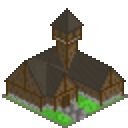
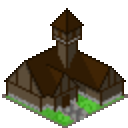
changed the sprites to remove the grass underneath. also added mill, market, farm sprites.

Changed region(s): [[0.0312, 0.0625, 1.0, 0.8438]]

diff --git a/src/states/gameplay_state.py b/src/states/gameplay_state.py
@@ -180,6 +180,7 @@ class GameplayState:
             path = os.path.join(self.terrain_path, filename)
             self.terrain_sprites[tile_code] = pygame.image.load(path).convert_alpha()
     
+    # loads the sprites for the units
     def load_unit_sprites(self):
         loaded_sprites = {}
     
@@ -241,6 +242,7 @@ class GameplayState:
                 path = os.path.join(self.building_path, sprite_info)
                 self.building_sprites[building_type] = pygame.image.load(path).convert_alpha()
 
+    # loads the sprites for ui resource icons
     def load_resource_icons(self):
         self.resource_animations = {}
 
@@ -253,6 +255,7 @@ class GameplayState:
             
             self.resource_animations[res_type] = AnimatedSprite(full_path, rows, cols)
 
+    # Displays the resource icons in the top right corner of the screen, with animation.
     def display_resource_icons(self, res_type):
         # 1. Get the animation object
         anim = self.resource_animations.get(res_type)
@@ -599,9 +602,11 @@ class GameplayState:
     # Displays a popup menu of the different buildings to construct and then calls the building selector
     def build_action(self):
         self.reachable_tiles = set()
-        self.popup_menu.open(["Town Centre", "Mill", "Cancel"], {
+        self.popup_menu.open(["Town Centre", "Market", "Mill", "Farm", "Cancel"], {
             "Town Centre": lambda: self.building_construction("town_centre"),
+            "Market": lambda: self.building_construction("market"),
             "Mill": lambda: self.building_construction("mill"),
+            "Farm": lambda: self.building_construction("farm"),
             "Cancel": self.cancel_action
         })
         self.popup_menu.set_position(

diff --git a/src/config.py b/src/config.py
@@ -109,12 +109,24 @@ UNIT_SPRITES_CONFIG = {
 
 BUILDING_SPRITES = {
     "town_centre": {
-        "normal": "towncenter3.png",
-        "selected": "tc_selected2.png"
+        "normal": "towncentre.png",
+        "selected": "tc_selected.png"
+    },
+    "market": {
+        "normal": "market.png",
+        "selected": "market_selected.png"
+    },
+    "mill": {
+        "normal": "mill.png",
+        "selected": "mill_selected.png"
+    },
+    "farm": {
+        "normal": "farm.png",
+        "selected": "farm.png"
     }
 }
 
-BUILDING_PATH = os.path.join("..", "assets", "buildings2")
+BUILDING_PATH = os.path.join("..", "assets", "buildings3")
 
 RESOURCE_ICONS_PATH = os.path.join("..", "assets", "resource_icons")
 
@@ -181,18 +193,20 @@ FLAT_BONUS = 0
 # Buildings = [name, food cost, wood cost, gold cost, hitpoints, pop capacity, 1_units, 2_units, 3_units, 4_units]
 BUILDINGS = {
     "town_centre": ["town_centre", 0, 400, 400, 500, 10, ["Villager", "Archers", "Spearmen"]],
+    "market": ["market", 0, 100, 100, 200, 0]
 }
 
 # [name, food cost, wood cost, gold cost, hitpoints, pop capacity]
 RESOURCE_BUILDINGS = {
-    "mill": ["mill", 0, 50, 0, 200, 0]
+    "mill": ["mill", 0, 50, 0, 200, 0],
+    "farm": ["farm", 0, 50, 0, 100, 0]
 }
 
-BUILDING_COLORS = {
-    "town_centre": (139, 69, 19),   # Brown
-    "mill": (255, 215, 0),          # Yellow
-    # Add more as you expand!
-}
+# BUILDING_COLORS = {
+#     "town_centre": (139, 69, 19),   # Brown
+#     "mill": (255, 215, 0),          # Yellow
+#     # Add more as you expand!
+# }
 
 VILLAGER_DESC = ("Villagers gather resources and construct buildings. They are weak in combat but essential for your economy. \n\n" "50 / 25")
 
